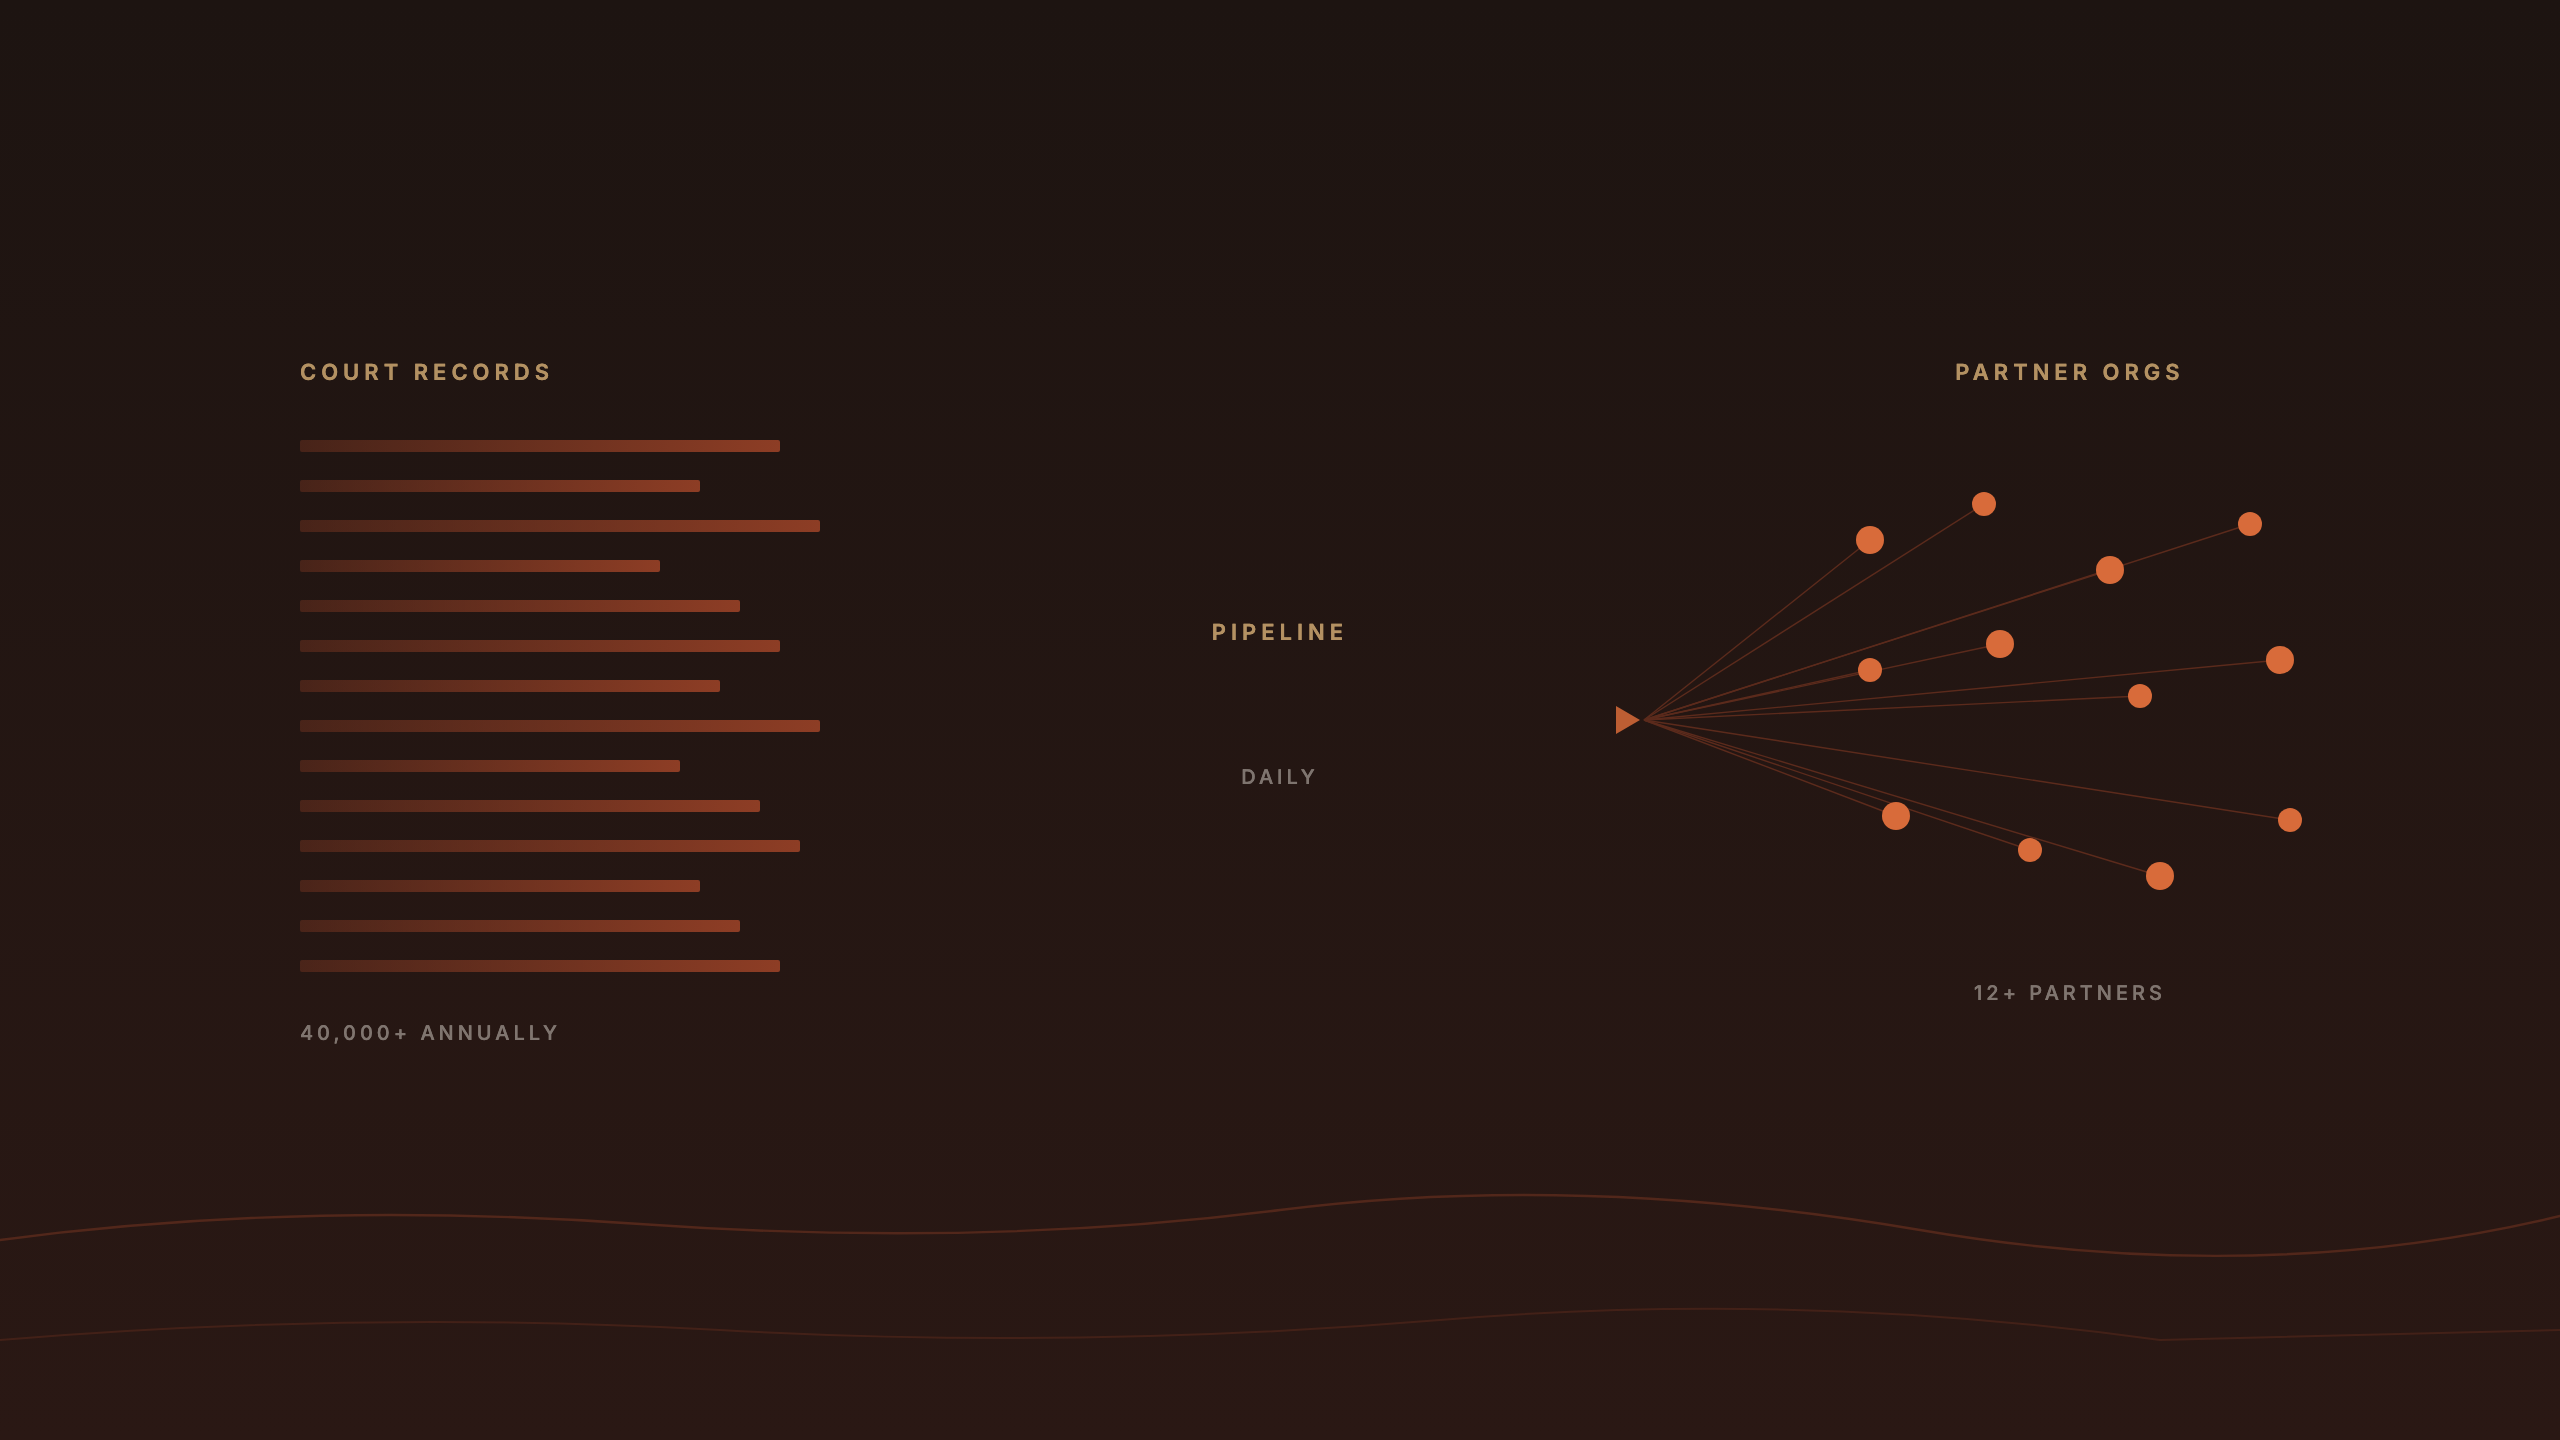
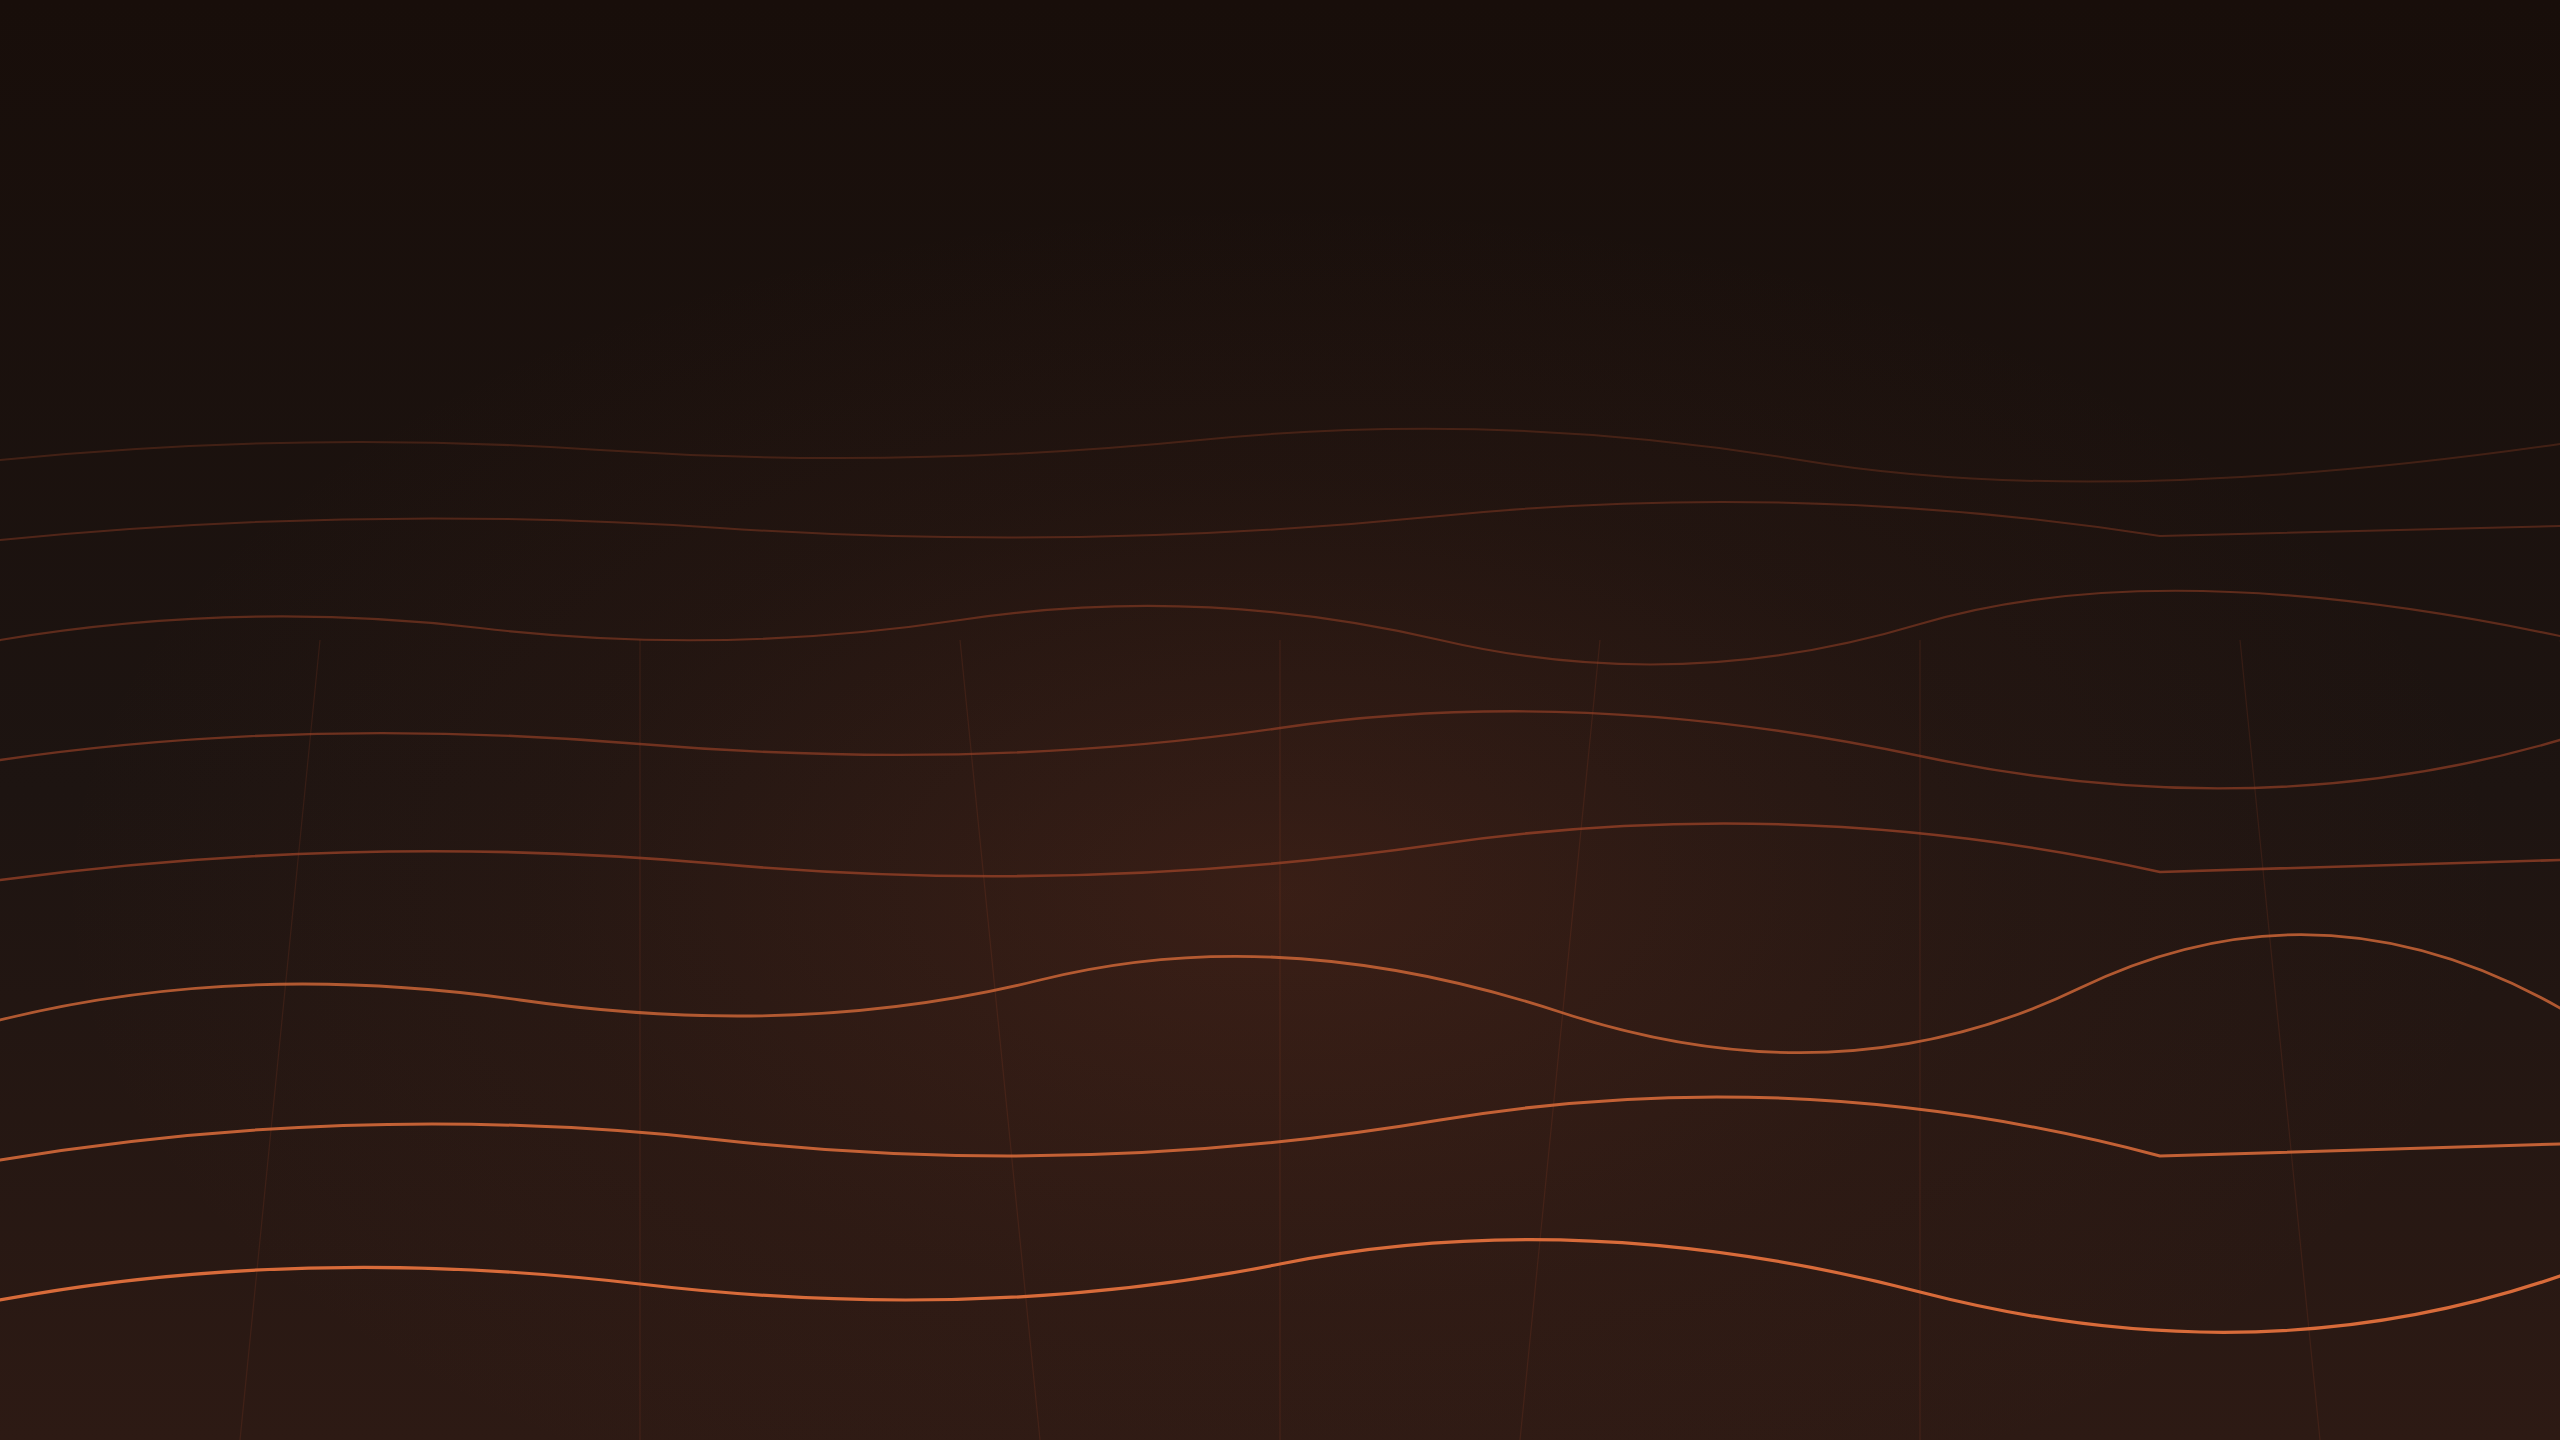
Tone polish: "the CPAL" prefix, ML monogram, role rename, uniform project cards
Switch narrative references from "Child Poverty Action Lab" to "the
Child Poverty Action Lab" everywhere CPAL is named in prose (home,
About, Work with me); chips, headers, JSON-LD, and resume credential
fields keep the bare proper-noun form.

About hero loses the duplicate "Hi, I'm Michael." sentence (kept only
in the H1). Headshot placeholder swaps the gradient circle for a
canyon ML monogram that matches the favicon, until the real photo
lands.

Resume role rename: "Manager, Data Analytics" → "Manager, Data" and
"Associate, Analytics" → "Associate, Data" to match how the team is
actually named internally.

Projects page now uses the wide side-by-side card uniformly. Dropped
the case-study card variant and its cardFor router; deleted
ProjectCardCaseStudy.astro and the now-unused caseStudySlugs export.

Eviction Pipeline image swapped for a canyon-terrain placeholder
(layered ridges, perspective lines, glow) that echoes the home hero.
Added a Project.cardImage field so the placeholder shows on cards
but the case study detail page renders no screenshot.

diff --git a/src/data/projects.ts b/src/data/projects.ts
@@ -9,6 +9,8 @@ export interface Project {
   category: 'civic' | 'open-source' | 'personal';
   highlights?: string[];
   image?: string;
+  /** Optional card-only image; cards prefer this over `image`, detail pages don't read it. */
+  cardImage?: string;
 }
 
 export const projects: Project[] = [
@@ -23,7 +25,7 @@ export const projects: Project[] = [
     href: '/resume/',
     gradient: 'from-canyon to-secondary',
     category: 'civic',
-    image: '/images/projects/eviction-pipeline.png',
+    cardImage: '/images/projects/eviction-pipeline.png',
     highlights: [
       '40,000+ records processed annually',
       '12+ partner organizations served',
@@ -157,10 +159,6 @@ export const projects: Project[] = [
     ],
   },
 ];
-
-// Slugs that have a full case study at /projects/[slug]/. Used to pick the case-study card
-// variant on the Projects page and the routing component in pages/projects/[slug].astro.
-export const caseStudySlugs = new Set<string>(['eviction-pipeline', 'homestead-map', 'digilab']);
 
 // Featured projects shown on homepage. Slug-based so reordering projects[] doesn't silently change the home page.
 const featuredSlugs = ['eviction-pipeline', 'homestead-map', 'digilab'];

diff --git a/src/data/resume.ts b/src/data/resume.ts
@@ -62,7 +62,7 @@ export const experience: Experience[] = [
     ],
   },
   {
-    title: 'Manager, Data Analytics',
+    title: 'Manager, Data',
     company: 'Child Poverty Action Lab',
     dates: 'May 2022 - May 2023',
     summary:
@@ -76,7 +76,7 @@ export const experience: Experience[] = [
     ],
   },
   {
-    title: 'Associate, Analytics',
+    title: 'Associate, Data',
     company: 'Child Poverty Action Lab',
     dates: 'June 2020 - April 2022',
     summary: